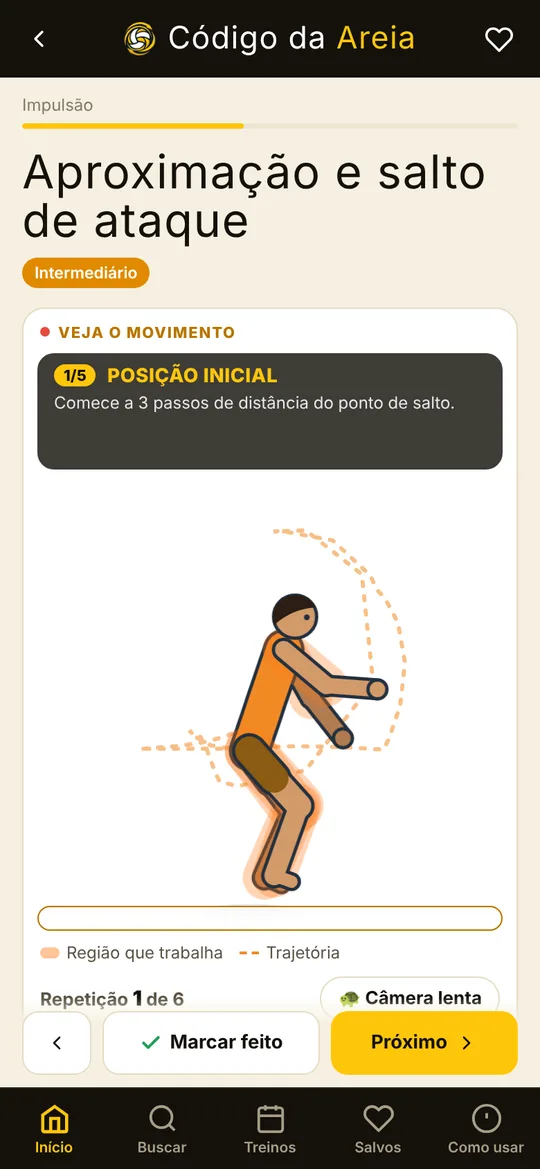
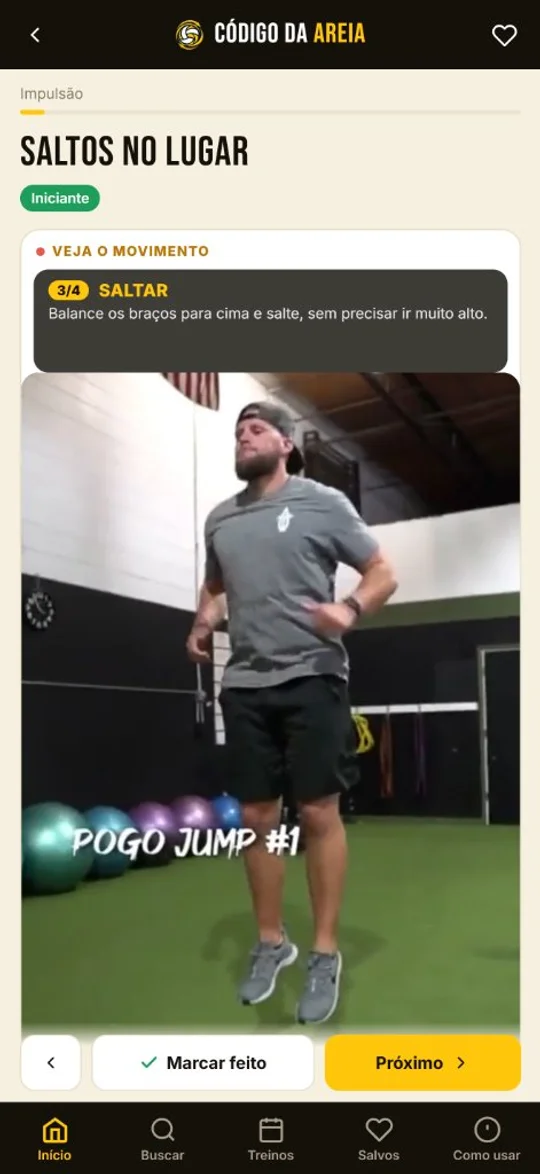
/impulsao: troca imagem do mockup de exercício pela tela real com vídeo (Saltos no lugar)

diff --git a/src/components/ImpulsaoConteudo.tsx b/src/components/ImpulsaoConteudo.tsx
@@ -27,7 +27,7 @@ const BLOCOS: Bloco[] = [
     titulo: 'Cada exercício de impulsão com o passo a passo',
     texto: 'A animação mostra a posição inicial, a passada e o salto, a região que trabalha e tem câmera lenta para você copiar o movimento.',
     imagem: telaExercicio,
-    alt: 'Exercício Aproximação e salto de ataque aberto no app, com a animação do movimento',
+    alt: 'Exercício Saltos no lugar aberto no app, com o vídeo do movimento e a etapa do passo a passo',
   },
   {
     etiqueta: 'No app',
